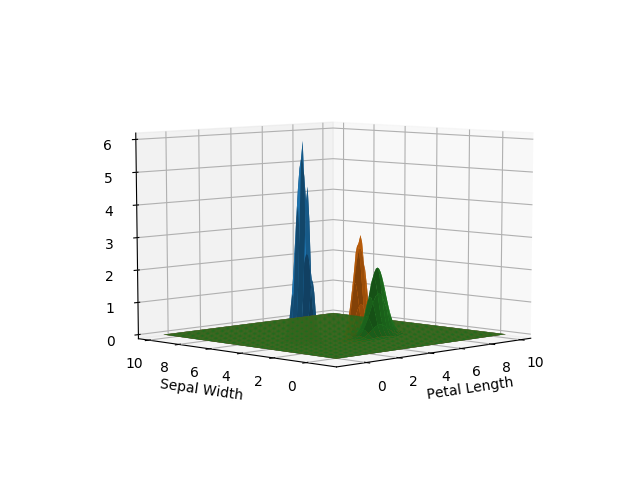
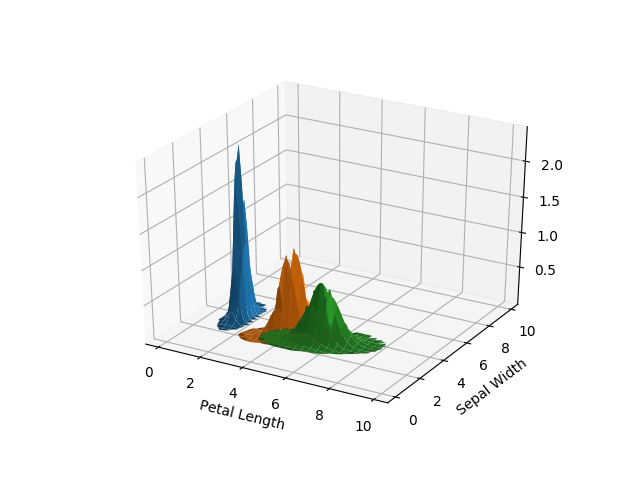
Atualizando imagens 3D do bayer...

diff --git a/bayes/classifier.py b/bayes/classifier.py
@@ -208,6 +208,18 @@ class NaiveBayesClassifier(object):
 
         plot.show()
 
+    def remove_zeros(self, matrix):
+        result = []
+        for vector in matrix:
+            line = []
+            for item in vector:
+                val = item
+                if val < 0.0001:
+                    val = float("NaN")
+                line.append(val)
+            result.append(line)
+        return result
+
     def plot_two_var_normal(self, vars_combination):
         """
         Método responsável por plotar a função normal (gaussiana) de duas variáveis.
@@ -245,6 +257,7 @@ class NaiveBayesClassifier(object):
             ax = fig.gca(projection='3d')
             plot.xlabel(vars_combination[0])
             plot.ylabel(vars_combination[1])
-            ax.plot_surface(y_values, x_values, z_values)
+
+            ax.plot_surface(self.remove_zeros(y_values), self.remove_zeros(x_values), self.remove_zeros(z_values))
 
         plot.show()
